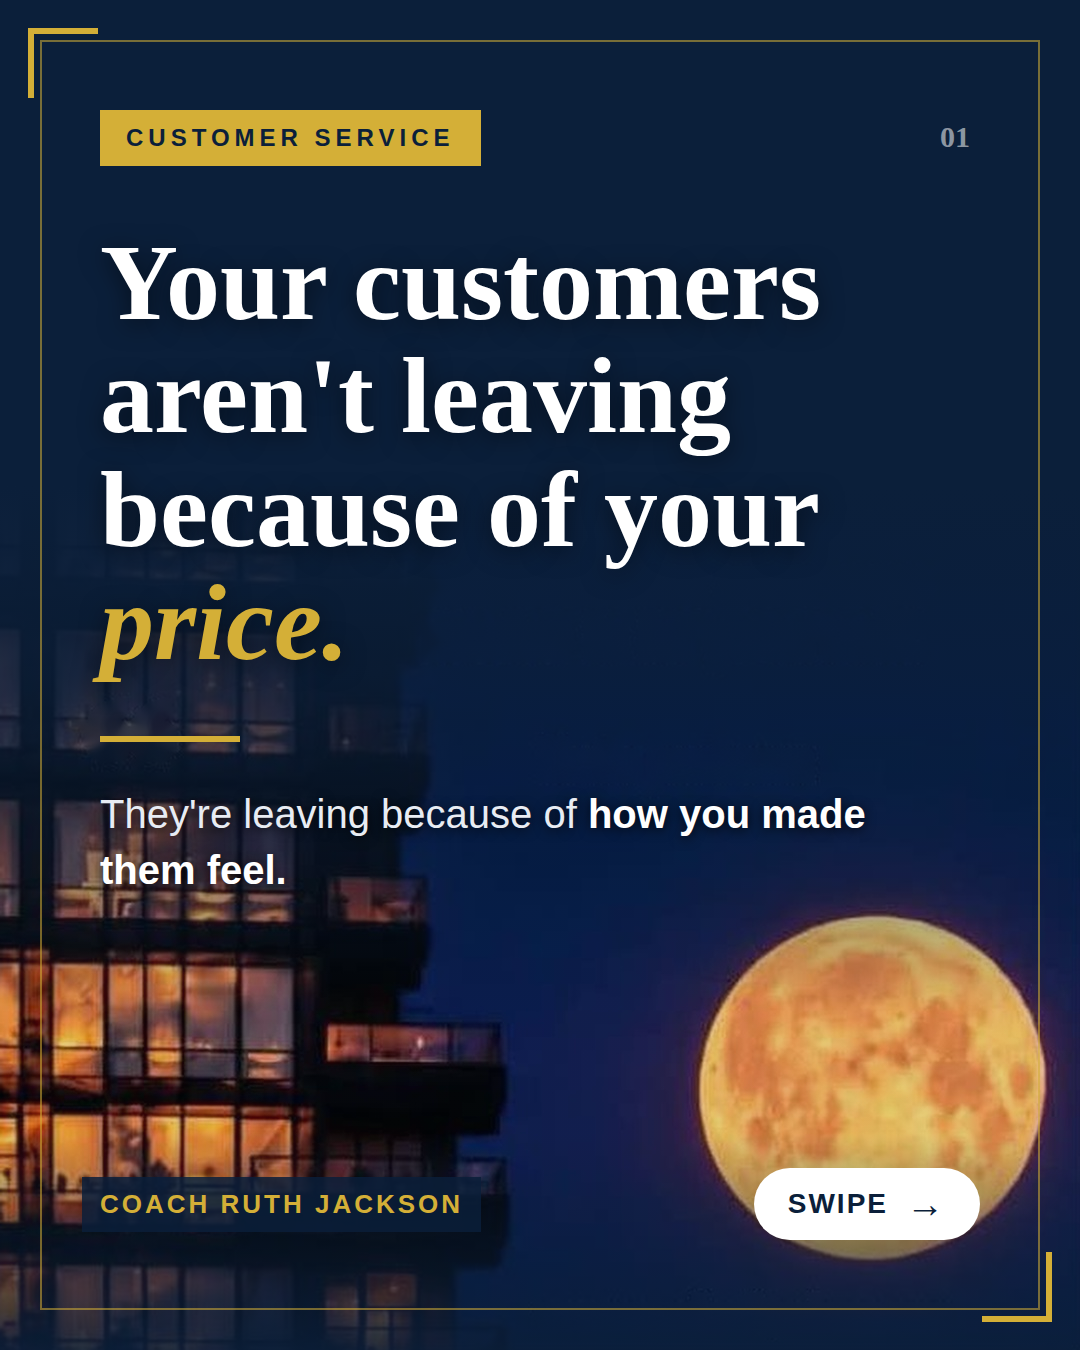
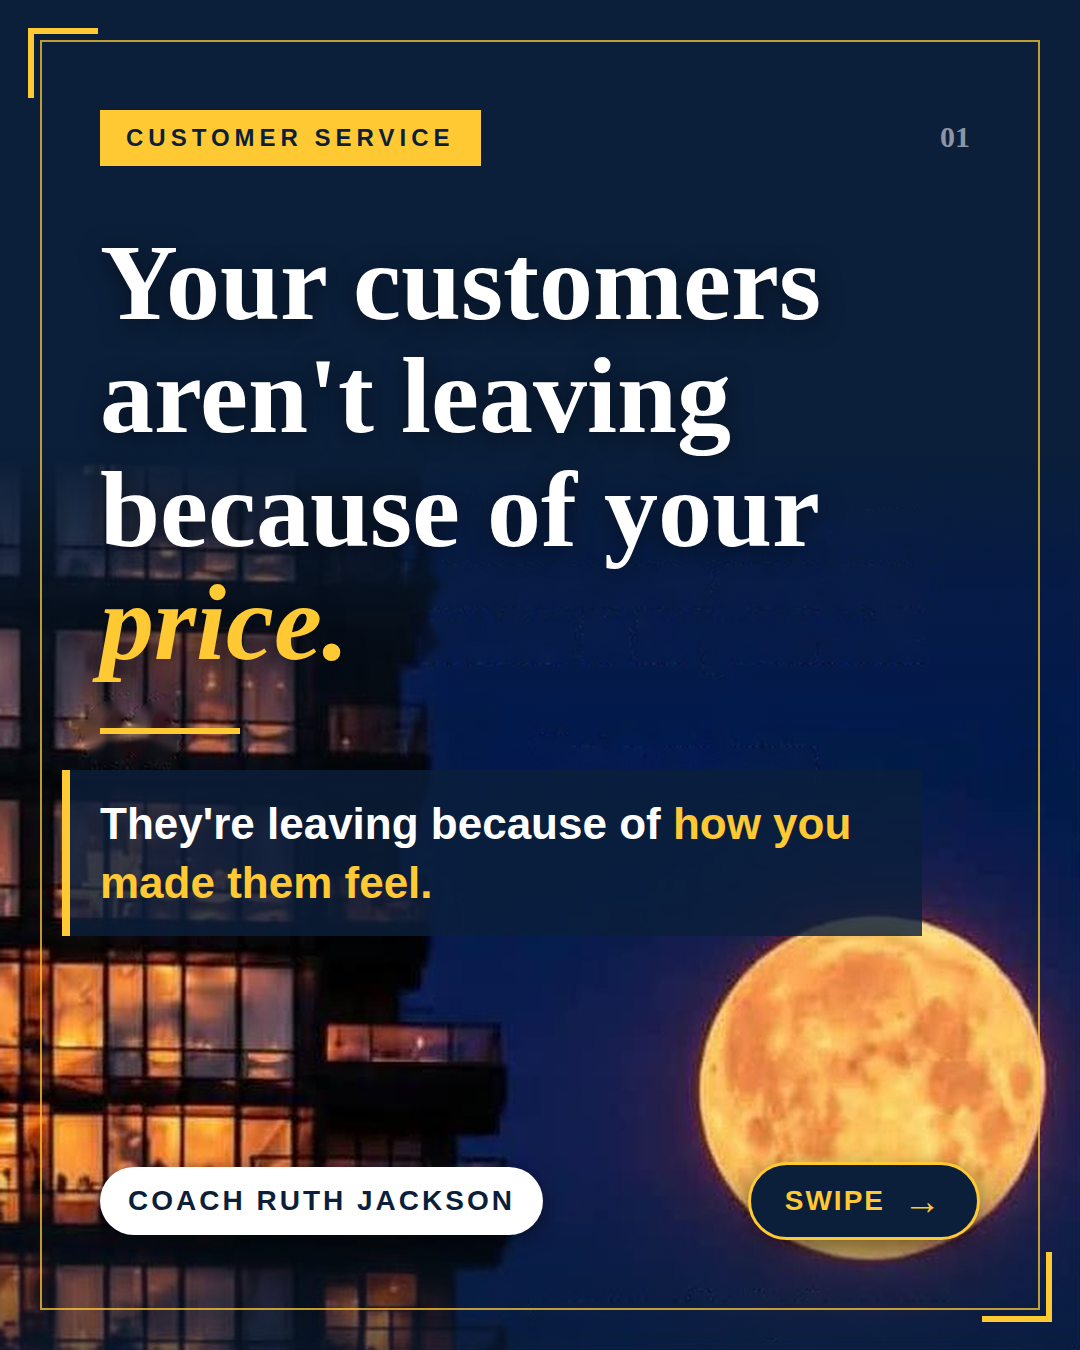
Brighten gold and improve legibility on photo hook slide
Claude-Session: https://claude.ai/code/session_01X6PY8qm2mm3qS4bPdcJgxp

diff --git a/social/customer-service-carousel/slide1-hook-photo.html b/social/customer-service-carousel/slide1-hook-photo.html
@@ -3,21 +3,21 @@
 <style>
 *{margin:0;padding:0;box-sizing:border-box}
 body{width:1080px;height:1350px;background:#0B1F3A url(slide1-bg.jpg) center bottom/1080px auto no-repeat;font-family:Montserrat,Arial,sans-serif;color:#fff;position:relative;overflow:hidden}
-.shade{position:absolute;inset:0;background:linear-gradient(180deg,#0B1F3A 0%,#0B1F3A 36%,rgba(11,31,58,.85) 50%,rgba(11,31,58,.55) 60%,rgba(11,31,58,.1) 75%,rgba(11,31,58,.1) 84%,rgba(11,31,58,.9) 100%)}
-.frame{position:absolute;inset:40px;border:2px solid rgba(212,175,55,.55)}
-.corner{position:absolute;width:70px;height:70px;border:6px solid #D4AF37}
+.shade{position:absolute;inset:0;background:linear-gradient(180deg,#0B1F3A 0%,#0B1F3A 33%,rgba(11,31,58,.55) 42%,rgba(11,31,58,.15) 55%,rgba(11,31,58,0) 64%,rgba(11,31,58,0) 86%,rgba(11,31,58,.6) 100%)}
+.frame{position:absolute;inset:40px;border:2px solid rgba(255,201,51,.75)}
+.corner{position:absolute;width:70px;height:70px;border:6px solid #FFC933}
 .tl{top:28px;left:28px;border-right:none;border-bottom:none}
 .br{bottom:28px;right:28px;border-left:none;border-top:none}
 .wrap{position:absolute;inset:110px 100px;display:flex;flex-direction:column}
-.tag{display:inline-block;align-self:flex-start;background:#D4AF37;color:#0B1F3A;font-weight:800;letter-spacing:5px;font-size:24px;padding:14px 26px;text-transform:uppercase}
+.tag{display:inline-block;align-self:flex-start;background:#FFC933;color:#0B1F3A;font-weight:800;letter-spacing:5px;font-size:24px;padding:14px 26px;text-transform:uppercase}
 h1{font-family:'Playfair Display',Georgia,serif;font-weight:900;font-size:108px;line-height:1.05;margin-top:60px;text-shadow:0 4px 24px rgba(0,0,0,.5)}
-h1 .gold{color:#D4AF37;font-style:italic}
-.rule{width:140px;height:6px;background:#D4AF37;margin:56px 0 44px}
-p{font-size:40px;line-height:1.4;font-weight:500;color:#E8ECF3;max-width:820px;text-shadow:0 2px 12px rgba(0,0,0,.8)}
-p b{color:#fff;font-weight:800}
+h1 .gold{color:#FFC933;font-style:italic}
+.rule{width:140px;height:6px;background:#FFC933;margin:48px 0 36px}
+p{font-size:44px;line-height:1.35;font-weight:600;color:#fff;max-width:860px;background:rgba(11,31,58,.82);border-left:8px solid #FFC933;padding:24px 30px;margin-left:-38px}
+p b{color:#FFC933;font-weight:800}
 .foot{margin-top:auto;display:flex;justify-content:space-between;align-items:center}
-.brand{font-size:26px;letter-spacing:3px;font-weight:700;color:#D4AF37;text-transform:uppercase;background:rgba(11,31,58,.85);padding:12px 18px;margin-left:-18px}
-.swipe{display:flex;align-items:center;gap:18px;background:#fff;color:#0B1F3A;font-weight:800;font-size:28px;padding:20px 34px;border-radius:60px;letter-spacing:2px}
+.brand{font-size:28px;letter-spacing:3px;font-weight:800;color:#0B1F3A;text-transform:uppercase;background:#fff;padding:18px 28px;border-radius:60px;box-shadow:0 6px 20px rgba(0,0,0,.4)}
+.swipe{display:flex;align-items:center;gap:18px;background:#0B1F3A;color:#FFC933;border:3px solid #FFC933;box-shadow:0 6px 20px rgba(0,0,0,.4);font-weight:800;font-size:28px;padding:20px 34px;border-radius:60px;letter-spacing:2px}
 .swipe span{font-size:38px;line-height:0}
 .num{position:absolute;top:120px;right:110px;font-family:'Playfair Display',serif;font-size:30px;color:rgba(255,255,255,.55);font-weight:700}
 </style></head><body>
